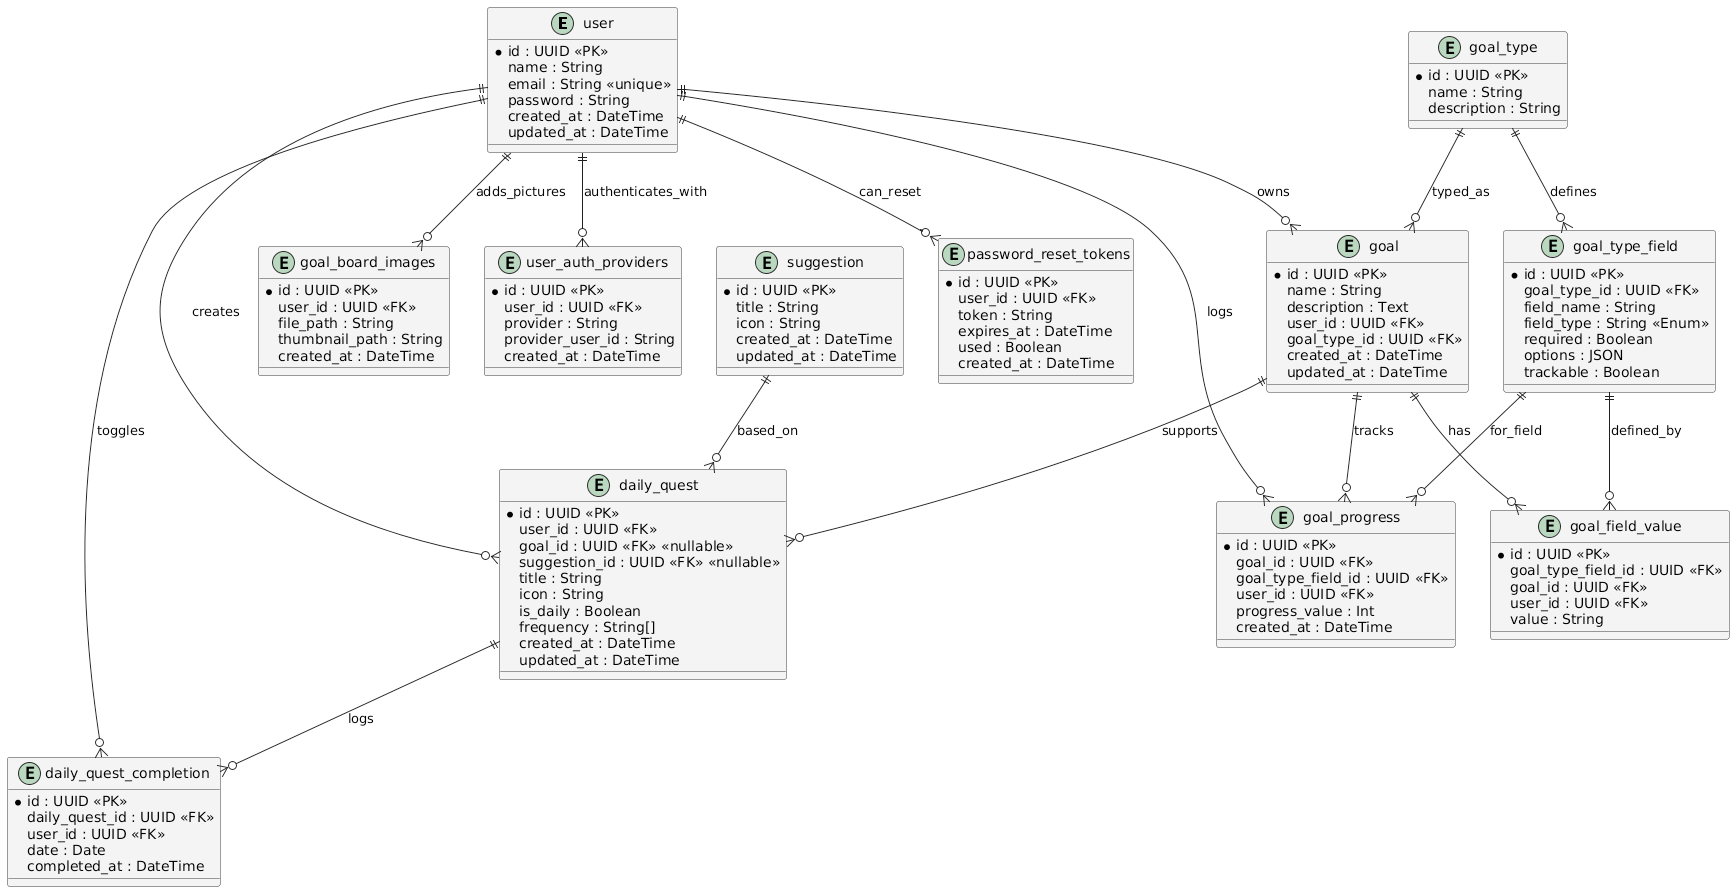
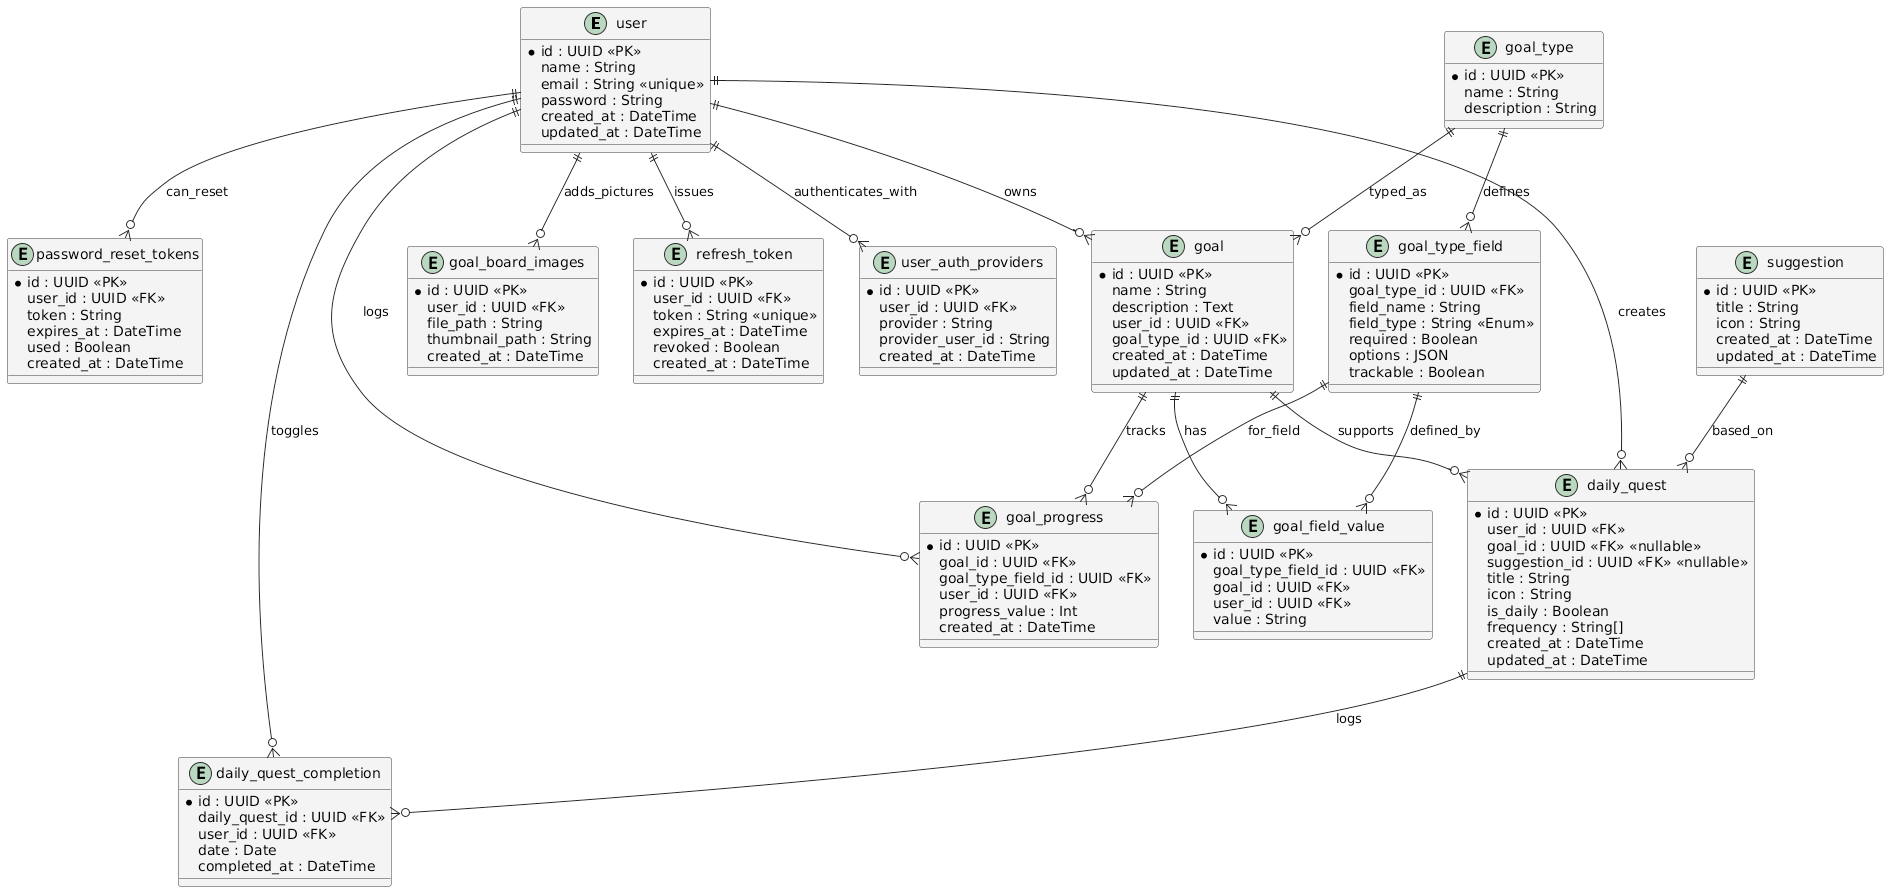
Add refresh-token endpoint scaffold

diff --git a/src/auth/auth.routes.ts b/src/auth/auth.routes.ts
@@ -8,6 +8,7 @@ authRouter.post("/register", authController.register);
 authRouter.post("/login", authController.login);
 authRouter.post("/google-login", authController.googleLogin);
 authRouter.post("/logout", authController.logout);
+authRouter.post("/refresh-token", authController.refreshToken);
 authRouter.post("/password-reset/request", authController.requestPasswordReset);
 authRouter.post("/password-reset/confirm", authController.confirmPasswordReset);
 

diff --git a/src/auth/auth.controller.ts b/src/auth/auth.controller.ts
@@ -18,6 +18,10 @@ export default class AuthController {
     res.status(StatusCodes.OK).json({ message: "It works!" });
   }
 
+  async refreshToken(req: Request, res: Response) {
+    res.status(StatusCodes.OK).json({ message: "It works!" });
+  }
+
   async requestPasswordReset(req: Request, res: Response) {
     res.status(StatusCodes.OK).json({ message: "It works!" });
   }

diff --git a/README.md b/README.md
@@ -180,6 +180,15 @@ entity password_reset_tokens {
   created_at : DateTime
 }
 
+entity refresh_token {
+  *id : UUID <<PK>>
+  user_id : UUID <<FK>>
+  token : String <<unique>>
+  expires_at : DateTime
+  revoked : Boolean
+  created_at : DateTime
+}
+
 ' === GOALS & PROGRESS ===
 entity goal {
   *id : UUID <<PK>>
@@ -267,6 +276,7 @@ entity suggestion {
 ' === RELATIONSHIPS ===
 user ||--o{ user_auth_providers : authenticates_with
 user ||--o{ password_reset_tokens : can_reset
+user ||--o{ refresh_token : issues
 user ||--o{ goal : owns
 goal_type ||--o{ goal : typed_as
 goal_type ||--o{ goal_type_field : defines
